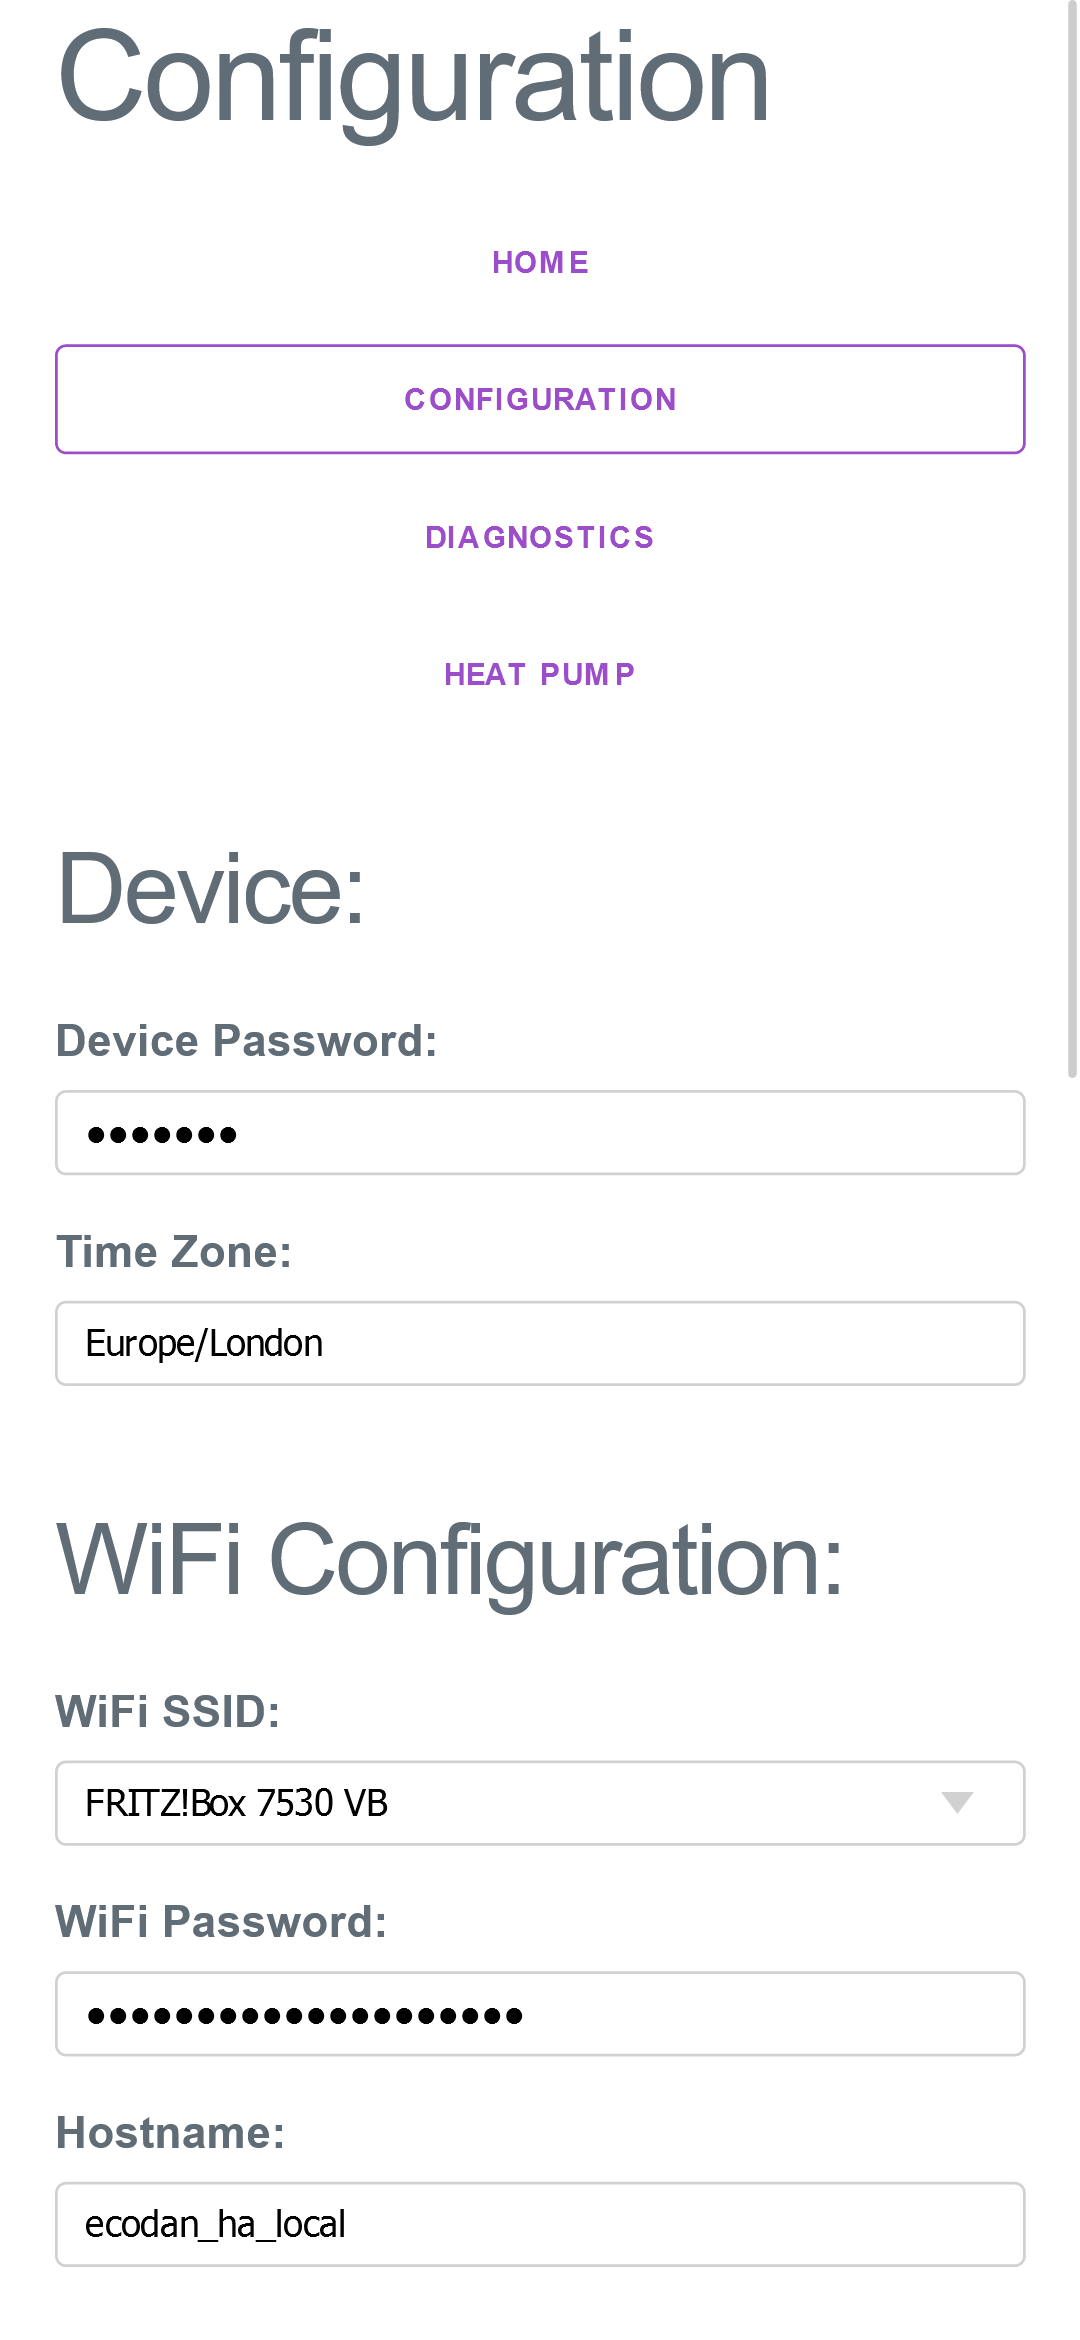
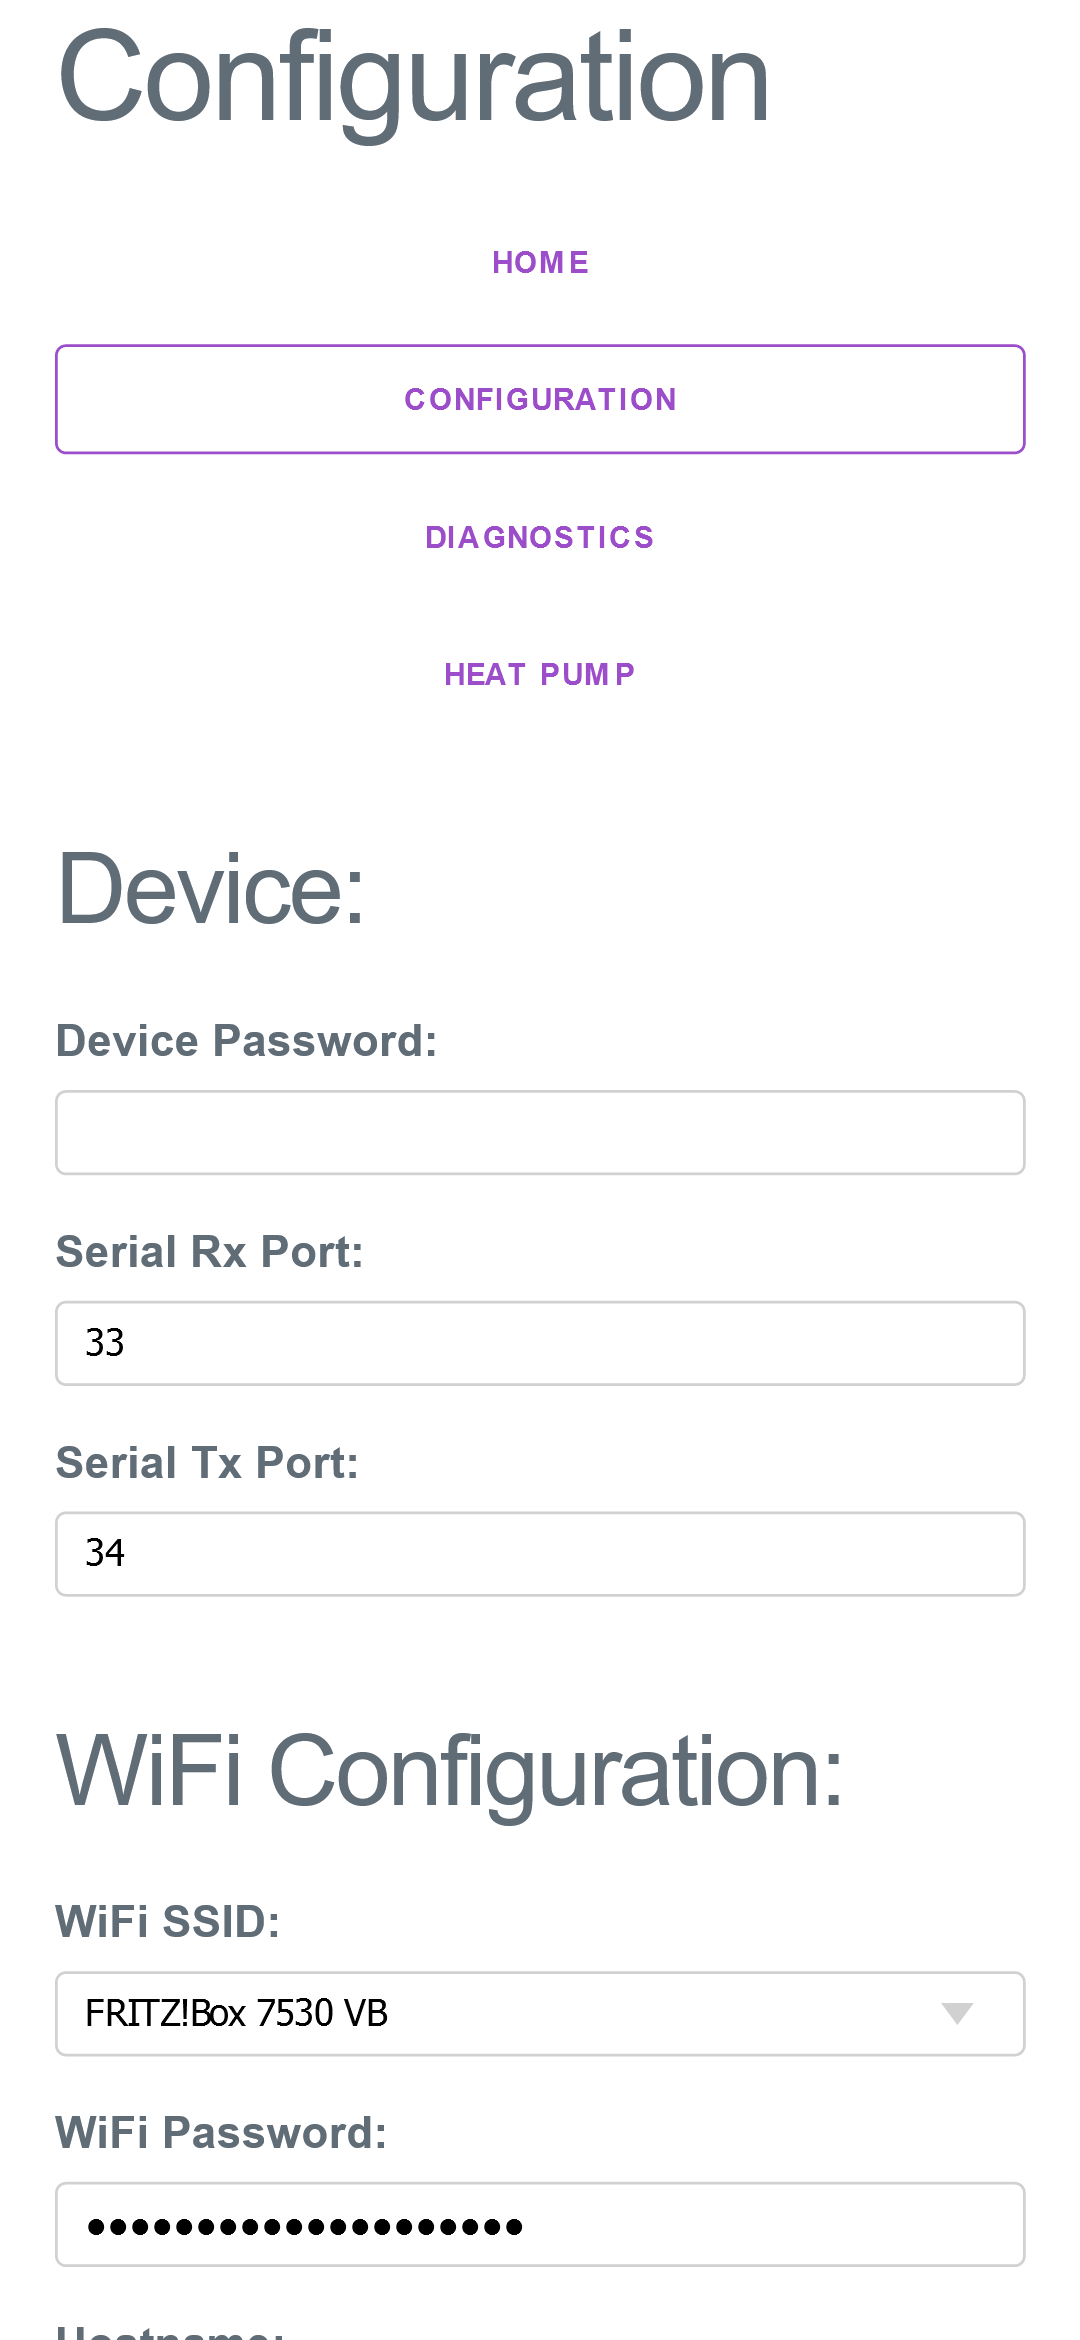
update readme + img to remove mention of TZ setting

diff --git a/README.md b/README.md
@@ -46,12 +46,19 @@ It's strongly recommended to enable this setting in case the device falls back t
 
 *Required*: No
 
-### Time Zone
-This setting contains a timezone value specified in ["TZ" format](https://en.wikipedia.org/wiki/List_of_tz_database_time_zones).
+### Serial Rx Port
+The GPIO pin number which should be used for Serial data receive.
 
-*Default*: `Europe/London`
+*Default*: `33`
 
-*Required*: No
+*Required*: Yes
+
+### Serial Tx Port
+The GPIO pin number which should be used for Serial data transmit.
+
+*Default*: `34`
+
+*Required*: Yes
 
 ### WiFi SSID
 The SSID of the WiFi network which you'd like the device to connect to. When the diagnostics page is loaded, the device will automatically initiate a scan for available WiFi networks and populate the menu when it completes.
